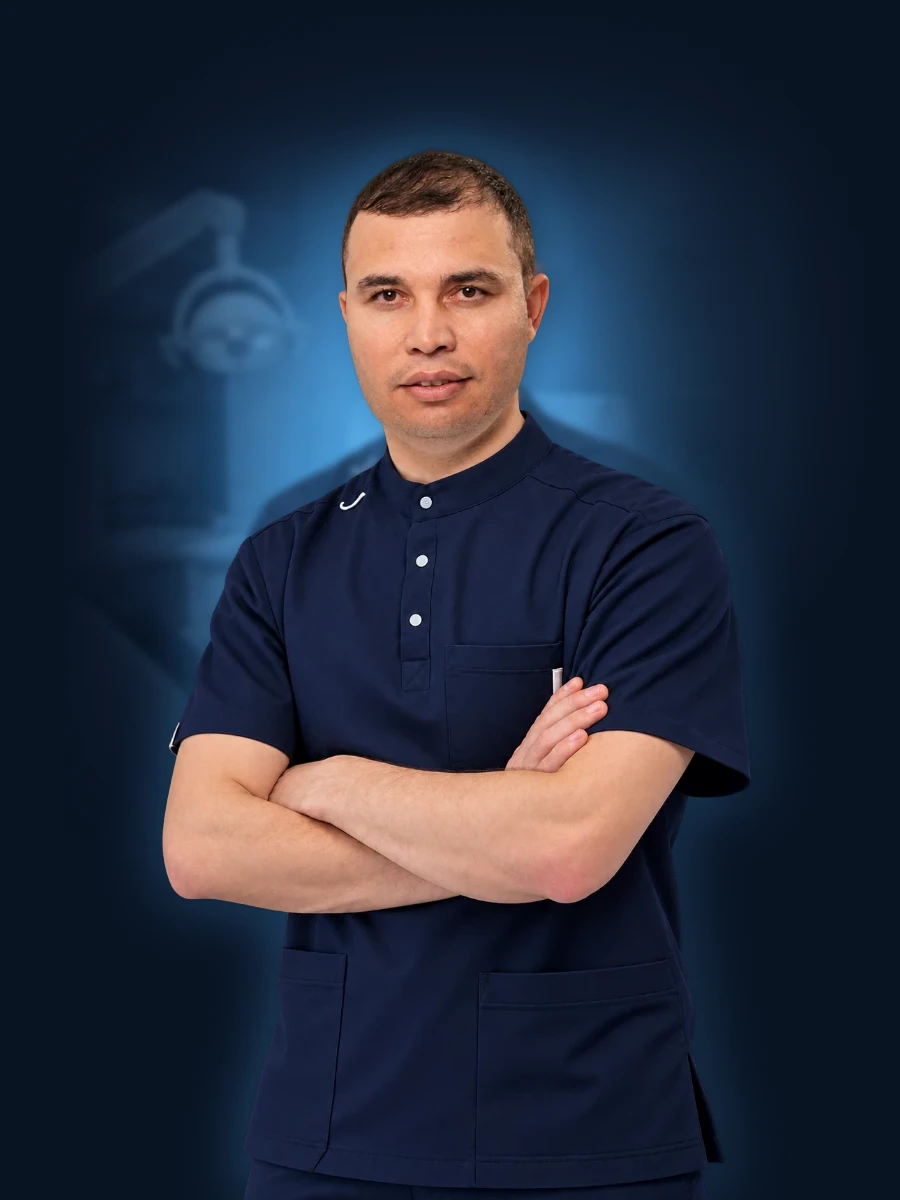
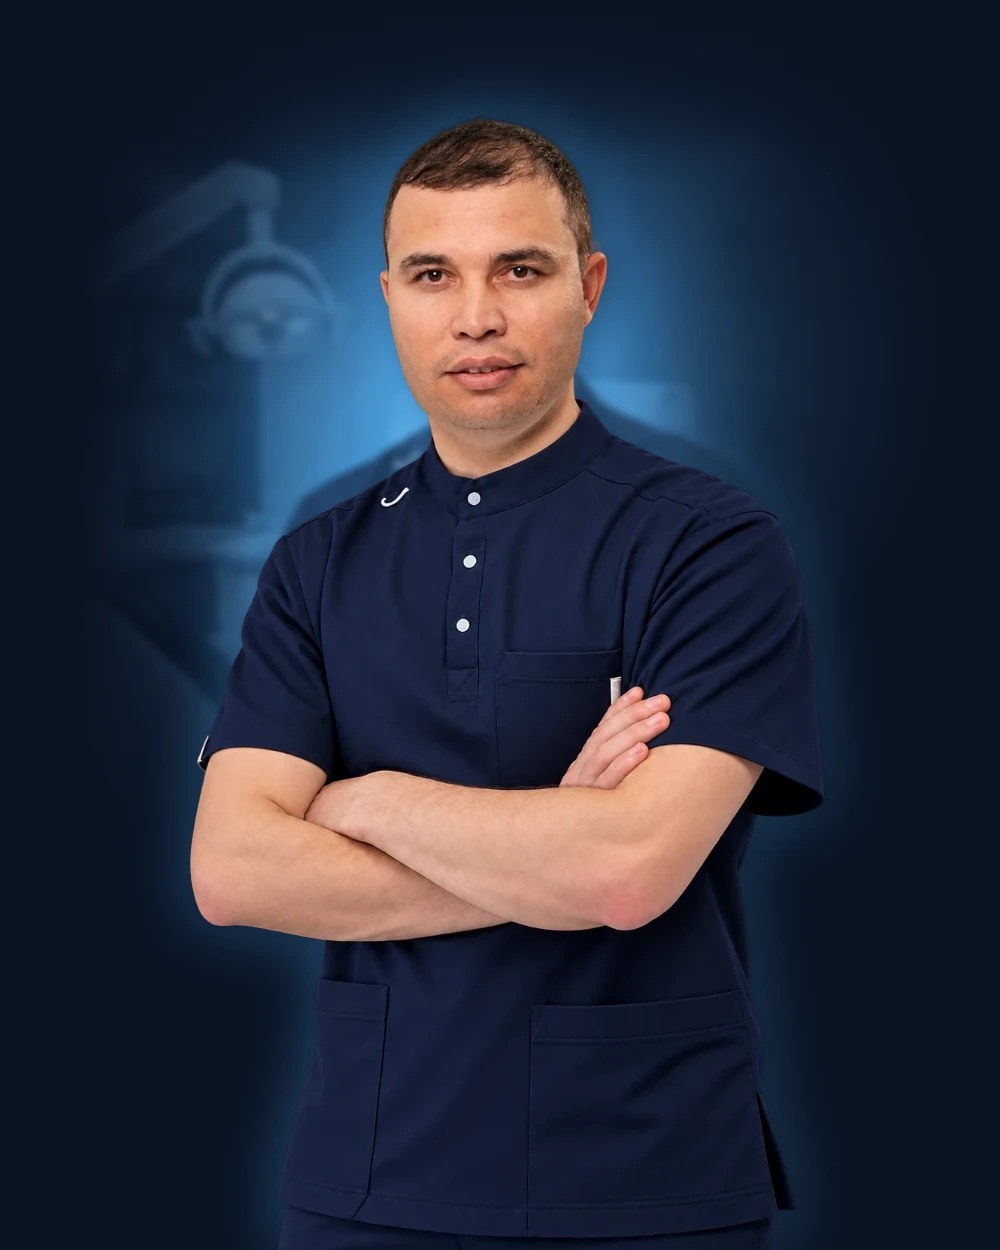
Expert block: larger doctor filling block height, balanced with text
Claude-Session: https://claude.ai/code/session_01QjhgXRLJPdLPRRFHPXyVaL

diff --git a/src/components/sections/header-hero.tsx b/src/components/sections/header-hero.tsx
@@ -75,13 +75,13 @@ export function Hero() {
 export function Expert() {
   return (
     <section id="mutaxassis" className="relative overflow-hidden bg-[#0a1424] text-white">
-      <div className="container grid gap-8 md:grid-cols-[0.9fr_1.1fr] md:gap-14">
+      <div className="container grid gap-8 md:grid-cols-[1.15fr_1fr] md:gap-10">
         {/* Doktor o'z kabinetida; rasm faqat chap ustunda, pastki chetga tayangan */}
-        <div className="relative mx-auto w-full max-w-[540px] self-end pt-10 md:pt-16">
-          <img src="/expert-room.webp" alt={doctor.name} width={900} height={1200} className="block w-full" />
+        <div className="relative mx-auto w-full max-w-[720px] self-end pt-6 md:pt-4">
+          <img src="/expert-room.webp" alt={doctor.name} width={1000} height={1250} className="block w-full" />
           <div className="pointer-events-none absolute inset-x-0 bottom-0 h-28 bg-gradient-to-t from-[#0a1424] to-transparent md:hidden" />
         </div>
-        <div className="relative -mt-16 self-center pb-16 md:mt-0 md:py-24">
+        <div className="relative -mt-16 self-center pb-16 md:mt-0 md:py-16">
           <p className="text-sm font-semibold uppercase tracking-widest text-[#4da3ee]">Mutaxassis haqida</p>
           <h2 className="mt-3 text-3xl font-extrabold sm:text-5xl">{doctor.name}</h2>
           <p className="mt-2 text-lg font-semibold text-[#4da3ee]">{expert.eyebrow}</p>
